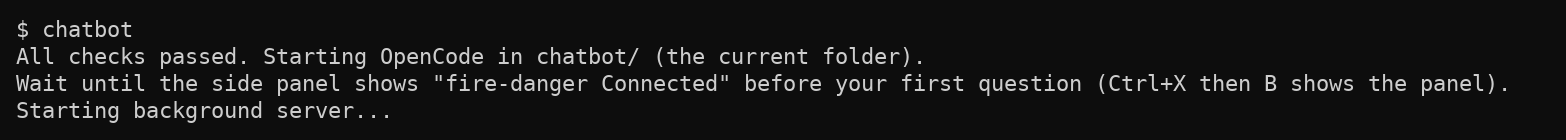
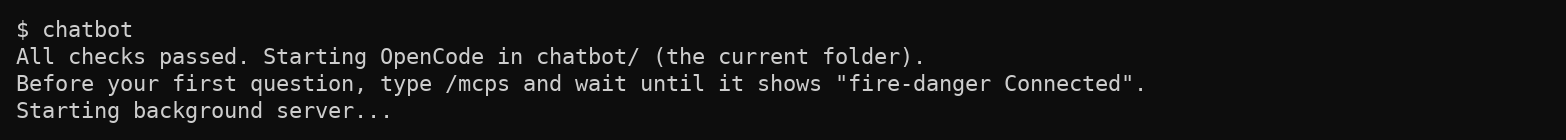
Guide OpenCode, fin de l'essai Codespace du 2026-10-28 : sections 7 à 9 validées (dossier piégé refusé, export/import et contrôle d'identité de mcp/ dans un vrai Codespace, glisser-déposer, reprise ~1 min) ; nouveau source-note (deux demandes) validé ; capture 08 refaite (consigne /mcps, ONLY= dans 

Changed region(s): [[0.0, 0.5143, 0.9502, 0.6857]]

diff --git a/README.md b/README.md
@@ -432,7 +432,8 @@ This guide connects your key inside OpenCode.
 
 > [!WARNING]
 > **The next times, do not use this link again**: it would create a new Codespace, without your
-> changes. Go to <https://github.com/codespaces> and click the **name** of your Codespace.
+> changes. Go to <https://github.com/codespaces> and click the **name** of your Codespace: it
+> reopens in about a minute.
 
 ### Step 2 - Start the chatbot
 
@@ -461,16 +462,16 @@ load the configuration of the chatbot: quit at once with `Ctrl+C`, and see
 
 After **Chatbot**, the line shows a model. Before you connect anything (step 3), it may be a GitHub
 Copilot model chosen by OpenCode, for example **Gemini 4 Argon · GitHub Copilot**. Do not ask
-anything yet: in our test, the first question got "Error: The requested model is not supported."
-Connect your key or subscription first.
+anything yet: in our test, this one answered "Error: The requested model is not supported."
+Connect your key or subscription first, so that you know who pays and on which terms.
 
 If the command prints a list of problems and "This chatbot is not safe to start. Fix it, or ask the
 person who sent it.", OpenCode does not start: each line says what is wrong.
 [Part 7](#when-chatbot-refuses-to-start) explains these messages. On a new Codespace of this guide,
 you should not see it.
 
-The grey example text in the message box, "Fix broken tests", is OpenCode's own, made for
-programmers: ignore it.
+The grey example text in the message box, such as "Fix broken tests" or "What is the tech stack of
+this project?", is OpenCode's own, made for programmers: ignore it.
 
 ![OpenCode just after it opens in the chatbot folder: the OpenCode logo, the message box, and the bottom line "Chatbot · Claude Sonnet 5.5 · Anthropic"](images/01-welcome.png)
 
@@ -505,14 +506,16 @@ can share the folder without sharing your key. You connect once per Codespace.
 Choose a model in this list (later, type `/models` and press Enter to open it again: it lists the
 models of all the providers you connected), for example **Claude Sonnet 5.5** (Anthropic or GitHub Copilot), **Gemini 3.8 Flash**
 (Google) or **GPT-6 Sol** (OpenAI). The bottom of the window now shows the chatbot, the model and
-its provider, for example **Chatbot · Claude Sonnet 5.5 · Anthropic**.
+its provider, for example **Chatbot · Claude Sonnet 5.5 · Anthropic**. OpenCode keeps this choice:
+at the next start, the bottom line shows the last model you used. Check it before each session.
 
 ![The list that `/models` opens, "Select model", with Claude Haiku, Sonnet and Opus highlighted](images/03-model-picker.png)
 
 In a Codespace, `/models` may list **GitHub Copilot** models even before you connect anything: they
-come from the Codespace's own access to GitHub. In our test, such a model did not answer ("Error:
-The requested model is not supported."). To use Copilot, connect your account with `/connect` as
-in step 3.
+come from the Codespace's own access to GitHub. In our test, with an account that has a Copilot
+plan, some answered (Grok 4.7) and others did not ("Error: The requested model is not
+supported.": Gemini 4 Argon, GPT-6 Sol). We did not check which plan or quota they use. To use
+Copilot, connect your account with `/connect` as in step 3.
 
 ### Step 5 - Wait for the tools, then ask
 
@@ -537,8 +540,9 @@ Then ask a real question:
 In which sector is La Rochelle, and from what time is the level of the day shown?
 ```
 
-**What you should see.** In the conversation, OpenCode shows what the chatbot did: a search in its
-documents, then the reading of a file of `knowledge/`. The answer says **sector 1 (1701)** and
+**What you should see.** Above the answer, OpenCode shows what the chatbot did: in our test, the
+line "→ Explored: 1 read, 1 search" (its readings and searches in its documents), and sometimes
+a call to its tool. The answer says **sector 1 (1701)** and
 **6 pm the day before**, and names the document `knowledge/30-charente-maritime-vigilance-levels.md`.
 In the side panel, the **context** counter shows how many tokens (pieces of words) were sent to the
 model, and how much it cost.
@@ -729,7 +733,8 @@ You can also tell the chatbot what you know, and let it write the document:
    (never **Always allow**: [part 7](#when-opencode-asks-you) says why).
 3. The chatbot then adds a line for the document at the end of `knowledge/index.md`, the list of
    documents. OpenCode **asks you** again: check that it adds only this line, then choose **Allow
-   once**.
+   once**. The window may show the first lines of the list first: the new line is at the end,
+   lower down in the window.
 4. Read the document it wrote, and check each sentence against your source.
 
 ![OpenCode asking before it writes a document: "Permission required → Edit knowledge/40-...md", the text it would write, and the choices Allow once / Always allow / Reject](images/06-permission-ask.png)
@@ -918,7 +923,7 @@ Next: chatbot
 
 When you type `chatbot` (without `check`), the checks pass and it starts OpenCode:
 
-![The terminal after `chatbot`: "All checks passed. Starting OpenCode in chatbot/", the line to wait for "fire-danger Connected", and "Starting background server…"](images/08-start-banner.png)
+![The terminal after `chatbot`: "All checks passed. Starting OpenCode in chatbot/", "Before your first question, type /mcps and wait until it shows "fire-danger Connected"", and "Starting background server…"](images/08-start-banner.png)
 
 **What it checks.** Each check closes a way around the rules that we found while testing OpenCode
 2.1.4:
@@ -1520,9 +1525,9 @@ from any folder: typed alone, it starts `chatbot/`, unless the folder you are in
 ### Copilot models appear although I did not connect Copilot
 
 In a Codespace, OpenCode sees the Codespace's own access to GitHub, and may even choose one of
-these models before you connect anything. In our test, it answered "Error: The requested model is
-not supported." Connect your key or subscription with `/connect` (part 1, step 3), then choose
-your model with `/models`; to use Copilot, connect your own account.
+these models before you connect anything. In our test, some answered and others gave "Error: The
+requested model is not supported." Connect your key or subscription with `/connect` (part 1, step
+3), then choose your model with `/models`; to use Copilot, connect your own account.
 
 ---
 
@@ -1593,5 +1598,7 @@ skills are under [CC BY-SA 4.0](LICENSES/CC-BY-SA-4.0.txt); configuration files,
 and the command `chatbot` under [EUPL-1.2](LICENSES/EUPL-1.2.txt); details in `REUSE.toml`. The documents 30 to 32, the
 MCP server and the skill `source-note` come from the
 [workshop kit](https://github.com/Youth-AI-Lab/yal-workshop-kit). OpenCode belongs to its authors.
-Tested with OpenCode 2.1.4 and the Codespace image `yal-workshop-devcontainer:2026.10.26`, in
-October 2026. The guide now uses `2026.10.27`: the same tools and versions, built for Intel/AMD and ARM computers.
+Tested with OpenCode 2.1.4 in October 2026. Parts 1 to 9 were followed in a Codespace with the
+image `yal-workshop-devcontainer:2026.10.27`, an Anthropic key and Claude Sonnet 5.5, on 28 October
+2026. The Gemini key, Copilot and ChatGPT were tested on a computer, not in a Codespace, and
+OpenRouter with test keys only (see each way).
